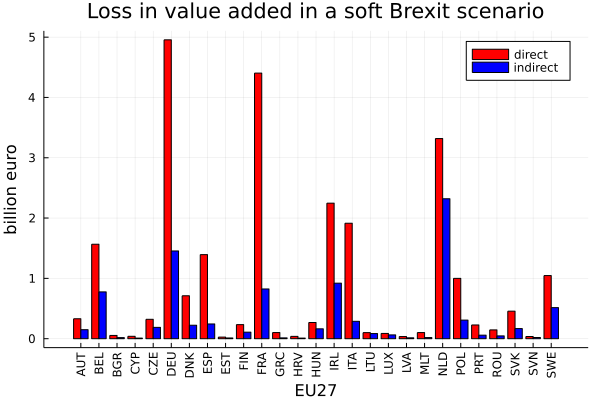
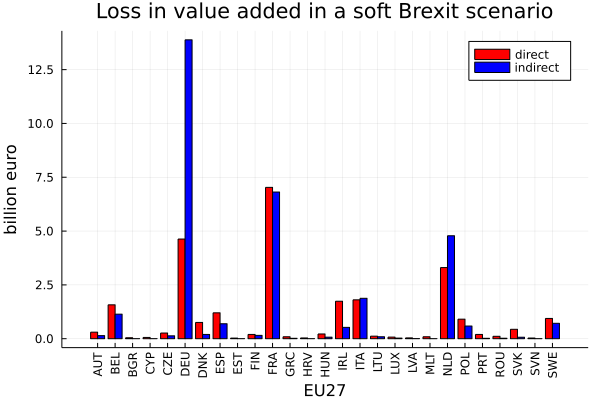
mistake with technical coefficient matrix

diff --git a/README.md b/README.md
@@ -13,7 +13,7 @@ The entire input and output for this code is accessible via my [Google Drive](ht
 # Results
 
 The following figures show the final figures obtained. My results coincide with most of the figures obtained by *Vandenbussche, Connell and Simons (2019)*, 
-however, there are are sizeable differences in the loss of value added in both Brexit scenarios for the big European economies (DE, FR, IT).
+however, there are are sizeable differences in the loss of value added in both Brexit scenarios particularly for the small EU countries.
 
 ***I suspect the problem lies in an alternative matching of the sectoral elasticities, hence, some more refinement is required.***
 
@@ -33,3 +33,5 @@ Corresponds to table 3 in the appendix:
 
 I would like to express my gratitute to the staff of Eurostat who helped tremendously in using 
 [RAMON](https://ec.europa.eu/eurostat/ramon/index.cfm?TargetUrl=DSP_PUB_WELC) correspondence tables and my colleagues for their many excellent comments.
+
+All errors are my own.
